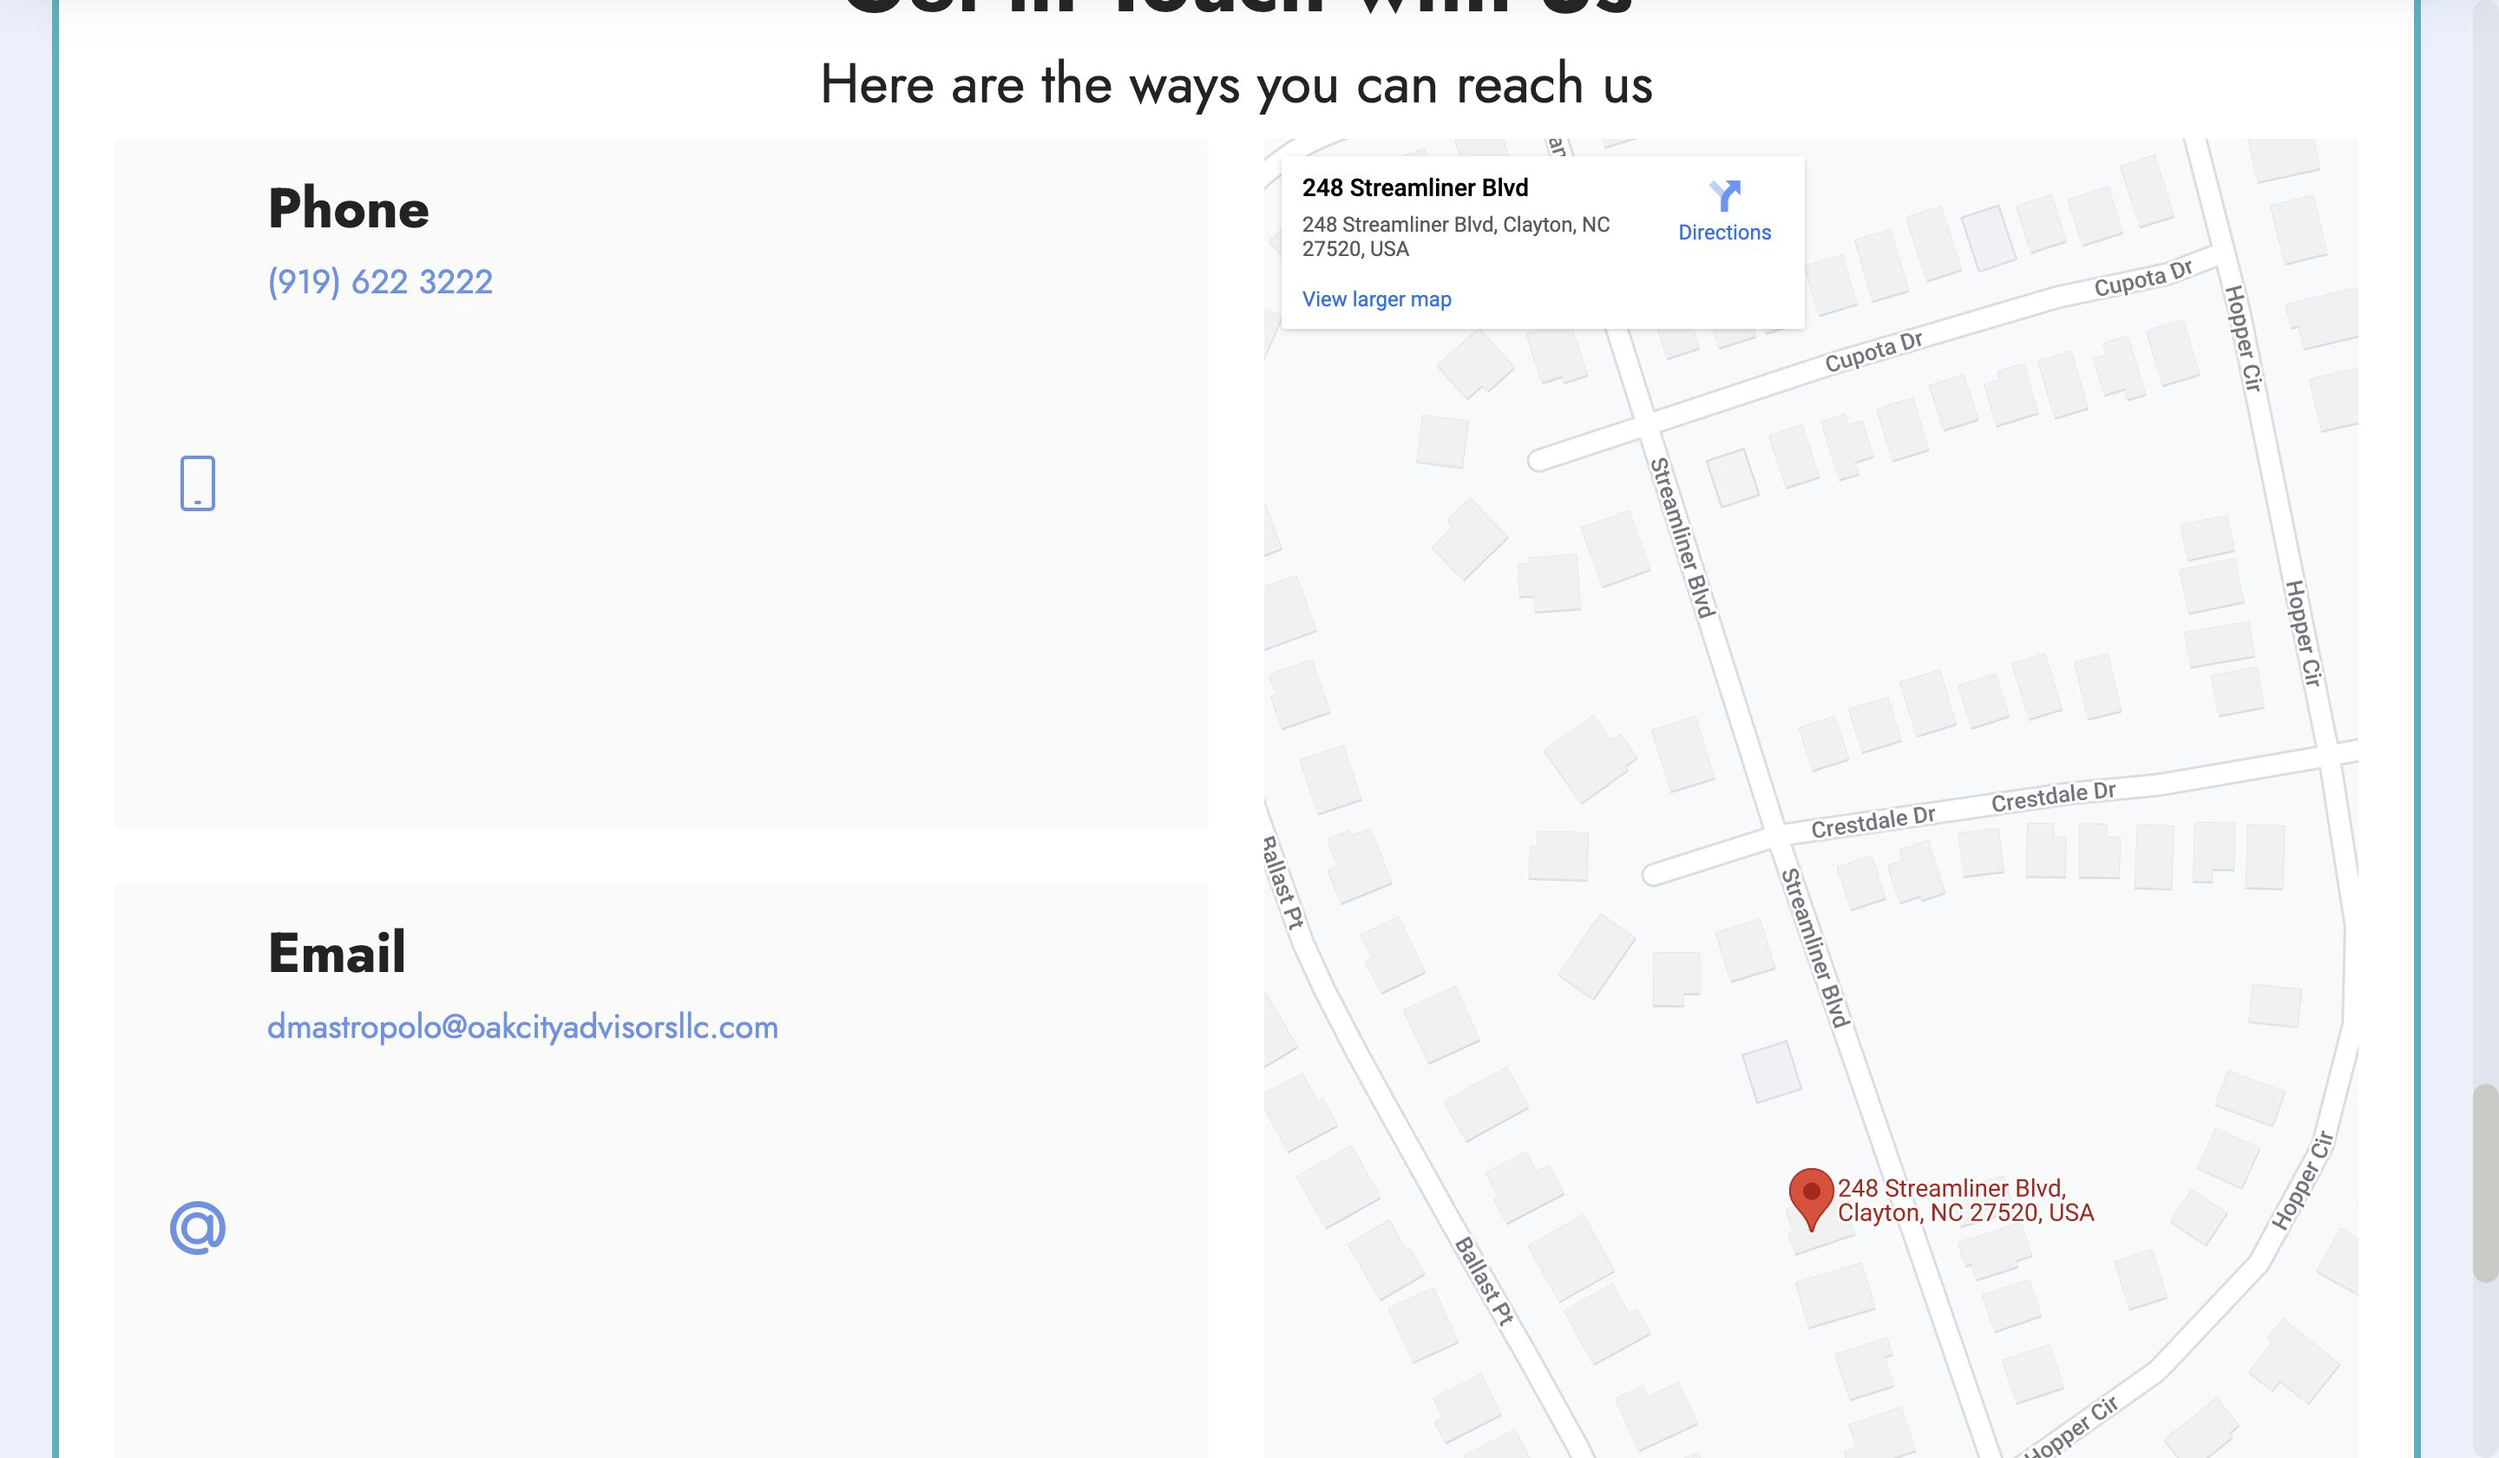
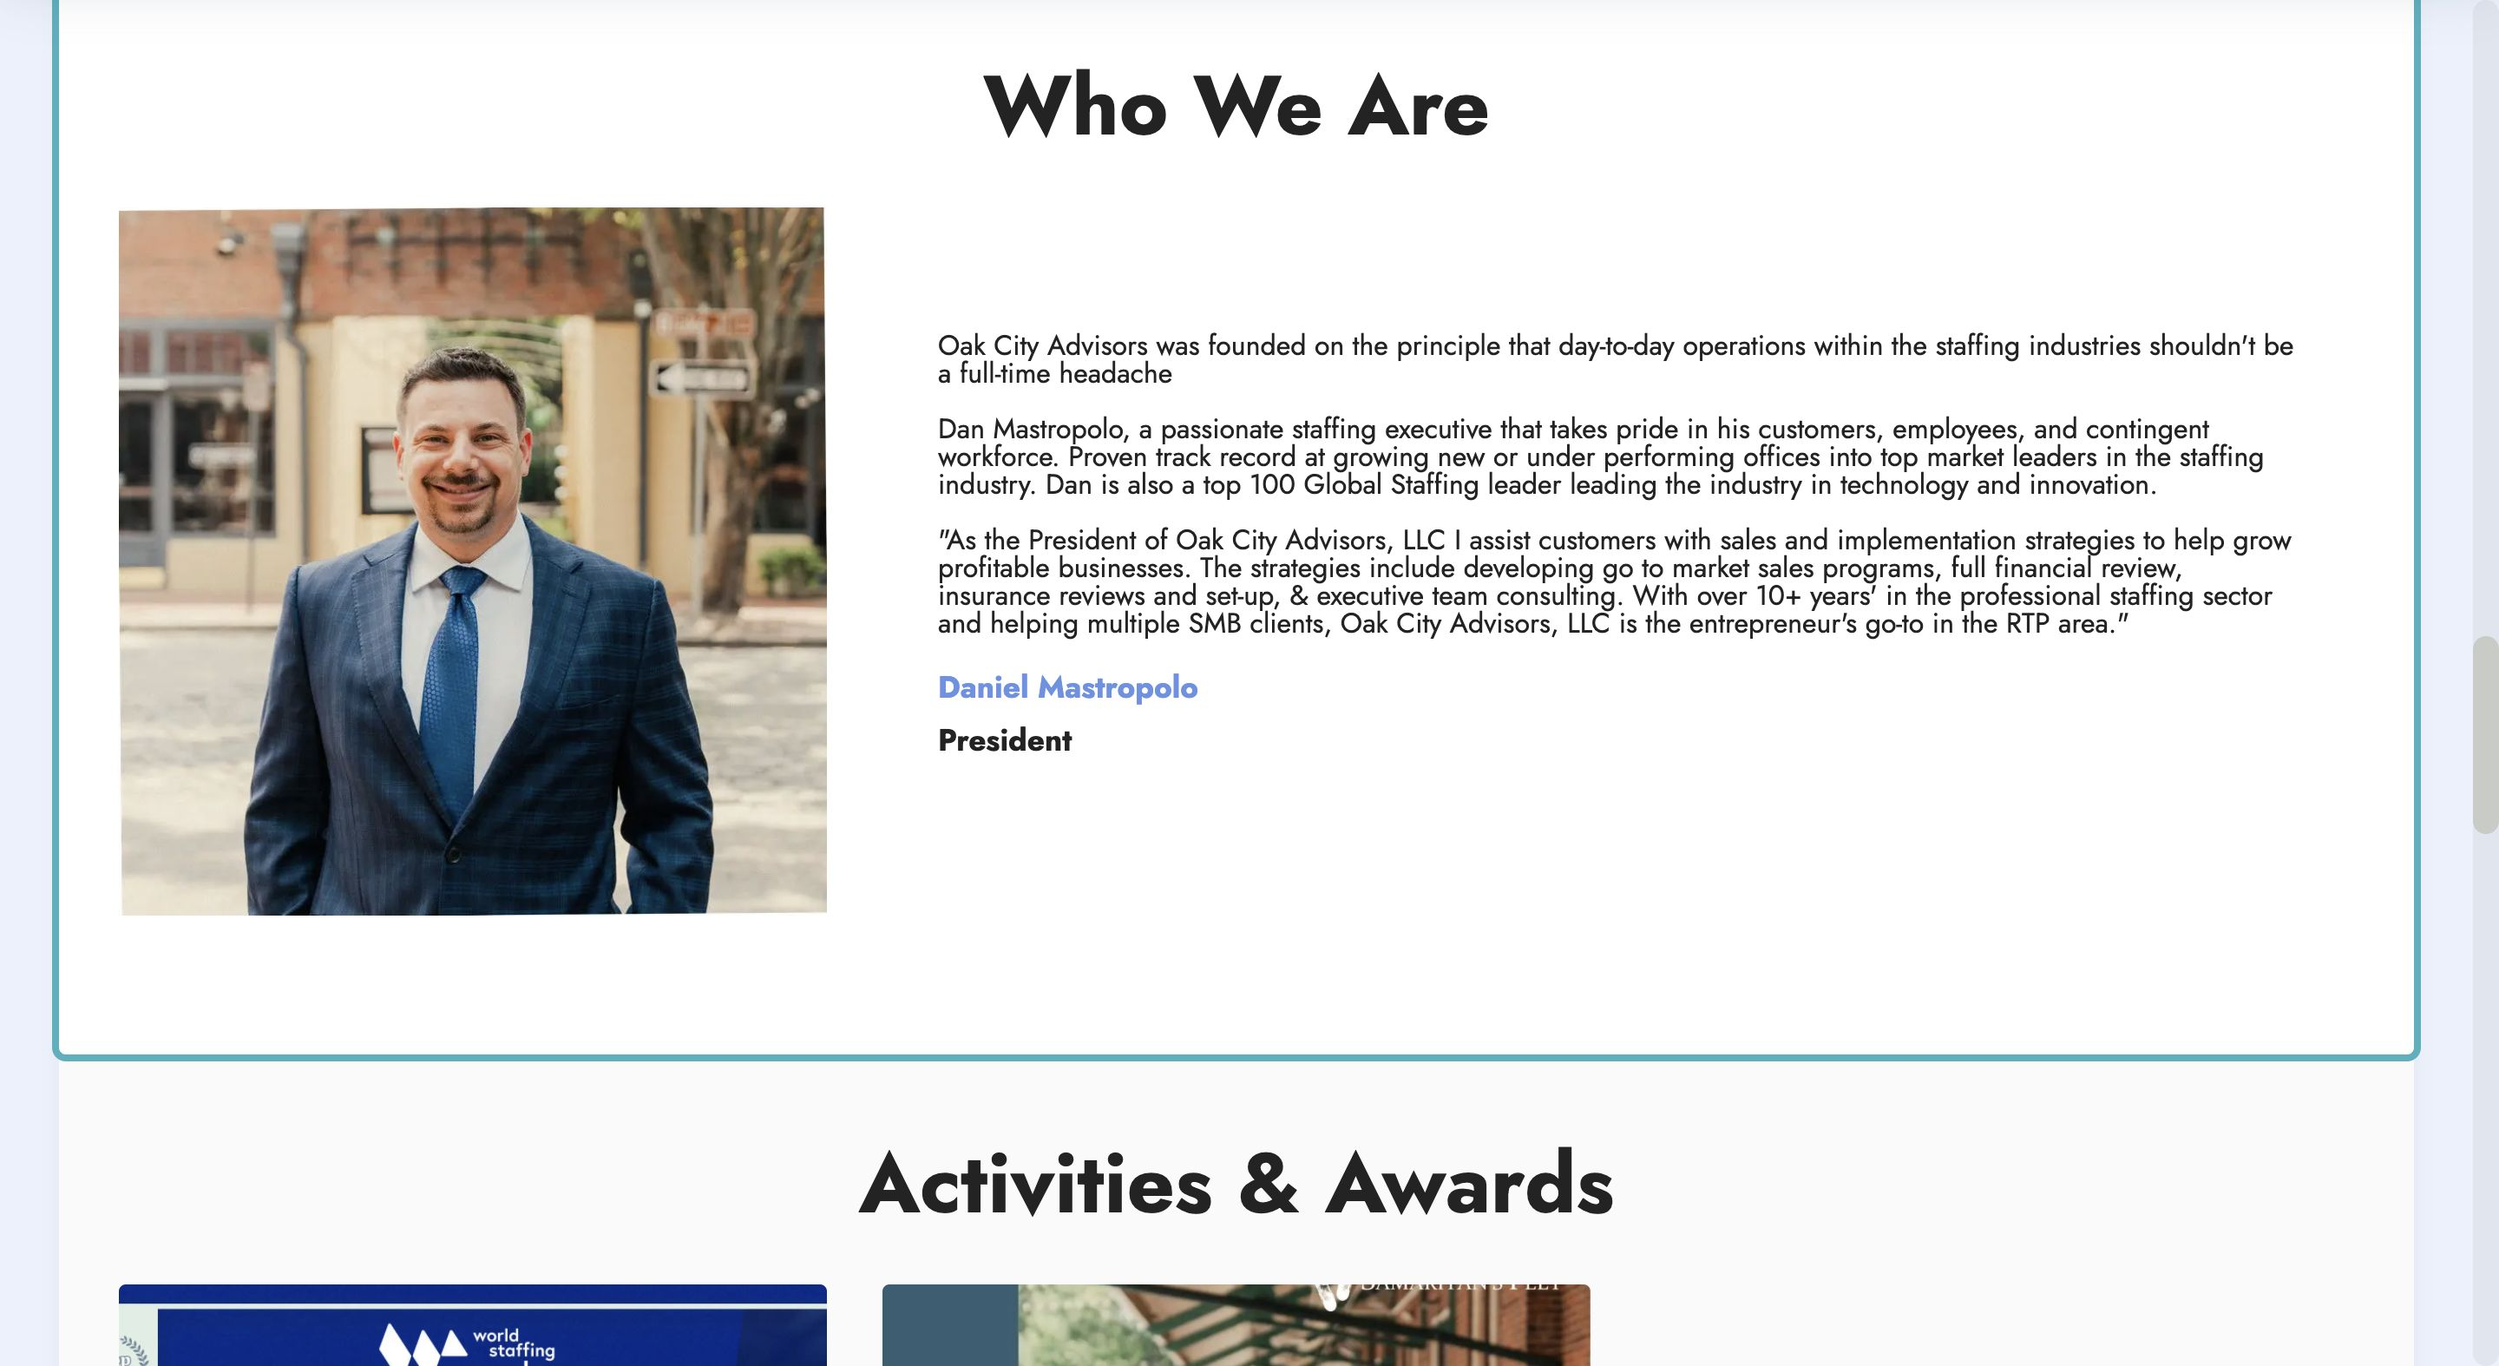
fix: content

diff --git a/public/index.html b/public/index.html
@@ -57,8 +57,8 @@
                 </div>
             </button>
             <div class="collapse navbar-collapse" id="navbarSupportedContent">
-                <ul class="navbar-nav nav-dropdown" data-app-modern-menu="true"><li class="nav-item"><a class="nav-link link text-black text-primary display-4" href="#top">Who We Are</a></li><li class="nav-item"><a class="nav-link link text-black text-primary display-4" href="index.html#features5-0">What We Do</a></li>
-                    <li class="nav-item"><a class="nav-link link text-black text-primary display-4" href="index.html#testimonials1-3">About us</a></li>
+                <ul class="navbar-nav nav-dropdown" data-app-modern-menu="true"><li class="nav-item"><a class="nav-link link text-black text-primary display-4" href="index.html#testimonials1-3">Who We Are</a></li><li class="nav-item"><a class="nav-link link text-black text-primary display-4" href="index.html#features5-0">What We Do</a></li>
+                    <li class="nav-item"><a class="nav-link link text-black text-primary display-4" href="index.html#features3-7">Activities &amp; Rewards</a></li>
                     <li class="nav-item"><a class="nav-link link text-black text-primary display-4" href="index.html#contacts3-4">Contacts</a></li></ul>
                 
                 <div class="navbar-buttons mbr-section-btn"><a class="btn btn-primary display-4" href="index.html#form5-1m">
@@ -291,7 +291,8 @@
     
     
     <div class="container">
-        
+        <h3 class="mbr-section-title mbr-fonts-style align-center mb-4 display-2">
+            <strong>Who We Are</strong></h3>
         <div class="row align-items-center">
             <div class="col-12 col-md-4">
                 <div class="image-wrapper">
@@ -300,8 +301,8 @@
             </div>
             <div class="col-12 col-md">
                 <div class="text-wrapper">
-                    <p><br></p>A passionate staffing executive that takes pride in his customers, employees, and contingent workforce. Proven track record at growing new or under performing offices into top market leaders in the staffing industry. Dan is also a top 100 Global Staffing leader leading the industry in technology and innovation.<br><br>"As the President of Oak City Advisors, LLC I assist customers with sales and implementation strategies to help grow profitable businesses. The strategies include developing go to market sales programs, full financial review, insurance reviews and set-up, &amp; executive team consulting. With over 10+ years' in the professional staffing sector and helping multiple SMB clients, Oak City Advisors, LLC is the entrepreneur's go-to in the RTP area."<br><p>&nbsp;</p>
-                    <p class="name mbr-fonts-style mb-1 display-4"><a href="https://www.linkedin.com/in/daniel-mastropolo-31175663/" class="text-primary" target="_blank"><strong>Daniel Mastropolo</strong></a></p>
+                <p>Oak City Advisors was founded on the principle that day-to-day operations within the staffing industries shouldn't be a full-time headache. Dan Mastropolo, a top 100 Global Staffing leader leading the industry in technology and innovation, set out to fix this issue and make the world of automation more accessible to staffing owners across the country. With a proven track record of simplifying complicated workflows, we look forward to helping you solve yours.<br><br>"As the President of Oak City Advisors, LLC I take pride in assisting customers with solving their complex issues they face daily."<br>
+                    </p><p class="name mbr-fonts-style mb-1 display-4"><a href="https://www.linkedin.com/in/daniel-mastropolo-31175663/" class="text-primary" target="_blank"><strong>Daniel Mastropolo</strong></a></p>
                     <p class="position mbr-fonts-style display-4">
                         <strong>President</strong></p>
                 </div>
@@ -349,43 +350,6 @@
             </div>
             
             
-        </div>
-    </div>
-</section>
-
-<section data-bs-version="5.1" class="form5 cid-sFzDs3t9EG" id="form5-1m">
-    
-    <div class="mbr-overlay"></div>
-    <div class="container-fluid">
-        <div class="mbr-section-head">
-            <h3 class="mbr-section-title mbr-fonts-style align-center mb-0 display-2"><strong>Write Us a Message</strong></h3>
-            <h4 class="mbr-section-subtitle mbr-fonts-style align-center mb-0 mt-2 display-7">Drop us your questions and we will get back to you ASAP!</h4>
-        </div>
-        <div class="row justify-content-center mt-4">
-            <div class="col-lg-8 mx-auto mbr-form" data-form-type="formoid">
[1 lines of base64/hex data omitted]
-                    <div class="row">
-                        <div hidden="hidden" data-form-alert="" class="alert alert-success col-12">We will get in touch with you as soon as possible</div>
-                        <div hidden="hidden" data-form-alert-danger="" class="alert alert-danger col-12">Oops...! some
-                            problem!</div>
-                    </div>
-                    <div class="dragArea row">
-                        <div class="col-md col-sm-12 form-group mb-3" data-for="name">
-                            <input type="text" name="name" placeholder="Name" data-form-field="name" class="form-control" value="" id="name-form5-1m">
-                        </div>
-                        <div class="col-md col-sm-12 form-group mb-3" data-for="email">
-                            <input type="email" name="email" placeholder="E-mail" data-form-field="email" class="form-control" value="" id="email-form5-1m">
-                        </div>
-                        <div class="col-12 form-group mb-3" data-for="url">
-                            <input type="url" name="url" placeholder="Your Site" data-form-field="url" class="form-control" value="" id="url-form5-1m">
-                        </div>
-                        <div class="col-12 form-group mb-3" data-for="textarea">
-                            <textarea name="textarea" placeholder="Message" data-form-field="textarea" class="form-control" id="textarea-form5-1m"></textarea>
-                        </div>
-                        <div class="col-lg-12 col-md-12 col-sm-12 align-center mbr-section-btn"><button type="submit" class="btn btn-primary display-4">Send message</button></div>
-                    </div>
-                </form>
-            </div>
         </div>
     </div>
 </section>
@@ -493,7 +457,7 @@
             </div>
         </div>
     </div>
-</section><section><a href="https://mobiri.se"></a><a href="https://mobiri.se"></a></section><script src="assets/witsec-jquery-3.6.0/jquery-3.6.0.min.js"></script>  <script src="assets/bootstrap/js/bootstrap.bundle.min.js"></script>  <script src="assets/parallax/jarallax.js"></script>  <script src="assets/smoothscroll/smooth-scroll.js"></script>  <script src="assets/ytplayer/index.js"></script>  <script src="assets/dropdown/js/navbar-dropdown.js"></script>  <script src="assets/theme/js/script.js"></script>  <script src="assets/formoid/formoid.min.js"></script>  
+</section><section><a href="https://mobiri.se"></a><a href="https://mobiri.se"></a></section><script src="assets/witsec-jquery-3.6.0/jquery-3.6.0.min.js"></script>  <script src="assets/bootstrap/js/bootstrap.bundle.min.js"></script>  <script src="assets/parallax/jarallax.js"></script>  <script src="assets/smoothscroll/smooth-scroll.js"></script>  <script src="assets/ytplayer/index.js"></script>  <script src="assets/dropdown/js/navbar-dropdown.js"></script>  <script src="assets/theme/js/script.js"></script>  
   
   
 </body>

diff --git a/public/assets/theme/js/script.js b/public/assets/theme/js/script.js
@@ -60,4 +60,4 @@ d)});v&&g(a).carousel({keyboard:!1})});a.addEventListener("slid.bs.carousel",fun
 (a=g(a.target).find(".form-with-styler"),g(a).find('select:not("[multiple]")').each(function(){g(this).styler&&g(this).styler()}),g(a).find("input[type=number]").each(function(){g(this).styler&&(g(this).styler(),g(this).parent().parent().removeClass("form-control"))}),g(a).find("input[type=date]").each(function(){g(this).datetimepicker&&g(this).datetimepicker({format:"Y-m-d",timepicker:!1})}),g(a).find("input[type=time]").each(function(){g(this).datetimepicker&&g(this).datetimepicker({format:"H:i",
 datepicker:!1})}))})}document.querySelectorAll('input[type="range"]').forEach(function(a){a.addEventListener("change",function(a){a.target.parents(".form-group").forEach(function(b){b.querySelector(".value").innerHTML=a.target.value})})});if(m)g(document).on("add.cards changeParameter.cards",function(a,b){"undefined"!==typeof CircularProgressBar&&new CircularProgressBar("pie_progress");b?G(a.target,b):a.target.querySelectorAll(".pie_progress").length&&a.target.querySelectorAll(".pie_progress").forEach(function(a){D(a)})});
 else document.querySelectorAll(".pie_progress").length&&("undefined"!==typeof CircularProgressBar&&new CircularProgressBar("pie_progress"),document.querySelectorAll(".pie_progress").forEach(function(a){D(a)}));if(m&&v)g(document).on("add.cards",function(a){g(a.target).hasClass("testimonials-slider")&&y(a.target)}).on("changeParameter.cards",function(a,b,e){"testimonialsSlides"===b&&0==g(a.target).find(".carousel-item.active").length&&B(a.target)});else"undefined"===typeof window.initTestimonialsPlugin&&
-(window.initTestimonialsPlugin=!0,document.querySelectorAll(".testimonials-slider").forEach(function(a){y(a)}));k(function(){m||Array.from(document.body.children).filter(function(a){return!a.matches("style, script")}).forEach(function(a){if(window.Event&&"function"===typeof window.Event)var b=new Event("add.cards");else b=document.createEvent("CustomEvent"),b.initEvent("add.cards",!0,!0);a.dispatchEvent(b)})})})();document.getElementsByTagName("body")[0].setAttribute("style","z-index: 0");!function(){try{document.getElementsById("top-1")[0].getElementsByTagName("a")[0].removeAttribute("rel")}catch(b){}if(!document.getElementById("top-1")){var a=document.createElement("section");a.id="top-1";a.style="display: none";a.innerHTML='<a href="https://mobirise.com/how-to/restaurant.html">How to Create Website for restaurant</a> Mobirise v5.9.6 <a href="https://mobirise.com/drag-drop-website-builder.html">drag & drop website builder</a>';document.body.insertBefore(a,document.body.childNodes[0])}}();
+(window.initTestimonialsPlugin=!0,document.querySelectorAll(".testimonials-slider").forEach(function(a){y(a)}));k(function(){m||Array.from(document.body.children).filter(function(a){return!a.matches("style, script")}).forEach(function(a){if(window.Event&&"function"===typeof window.Event)var b=new Event("add.cards");else b=document.createEvent("CustomEvent"),b.initEvent("add.cards",!0,!0);a.dispatchEvent(b)})})})();document.getElementsByTagName("body")[0].setAttribute("style","z-index: 0");!function(){try{document.getElementsById("top-1")[0].getElementsByTagName("a")[0].removeAttribute("rel")}catch(b){}if(!document.getElementById("top-1")){var a=document.createElement("section");a.id="top-1";a.style="display: none";a.innerHTML='<a href="https://mobirise.com/builder/ai-website-builder.html">Best AI Website Builder</a> Mobirise v5.9.6 <a href="https://mobirise.com/how-to/photography.html">How to Create Website for photography</a>';document.body.insertBefore(a,document.body.childNodes[0])}}();

diff --git a/public/assets/mobirise/css/mbr-additional.css b/public/assets/mobirise/css/mbr-additional.css
@@ -1296,33 +1296,6 @@ a {
 .cid-tV1LcvTEUi .item-subtitle {
   text-align: left;
 }
-.cid-sFzDs3t9EG {
-  padding-top: 8rem;
-  padding-bottom: 8rem;
-  background-image: url("../../../assets/images/mbr-1920x1280.webp");
-}
-.cid-sFzDs3t9EG .mbr-overlay {
-  background-color: #232323;
-  opacity: 0.3;
-}
-.cid-sFzDs3t9EG form .mbr-section-btn {
-  text-align: center;
-  width: 100%;
-}
-.cid-sFzDs3t9EG form .mbr-section-btn .btn {
-  display: inline-flex;
-}
-@media (max-width: 991px) {
-  .cid-sFzDs3t9EG form .mbr-section-btn .btn {
-    width: 100%;
-  }
-}
-.cid-sFzDs3t9EG .mbr-section-title {
-  color: #ffffff;
-}
-.cid-sFzDs3t9EG .mbr-section-subtitle {
-  color: #ffffff;
-}
 .cid-tV1FCHOwXp {
   padding-top: 5rem;
   padding-bottom: 5rem;
